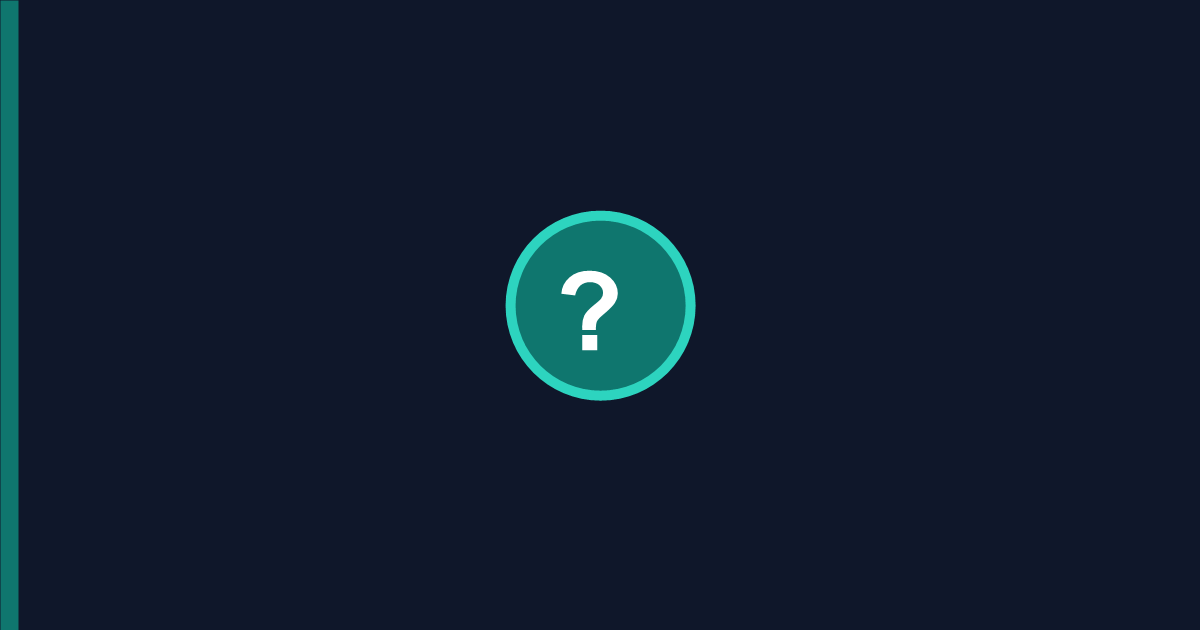
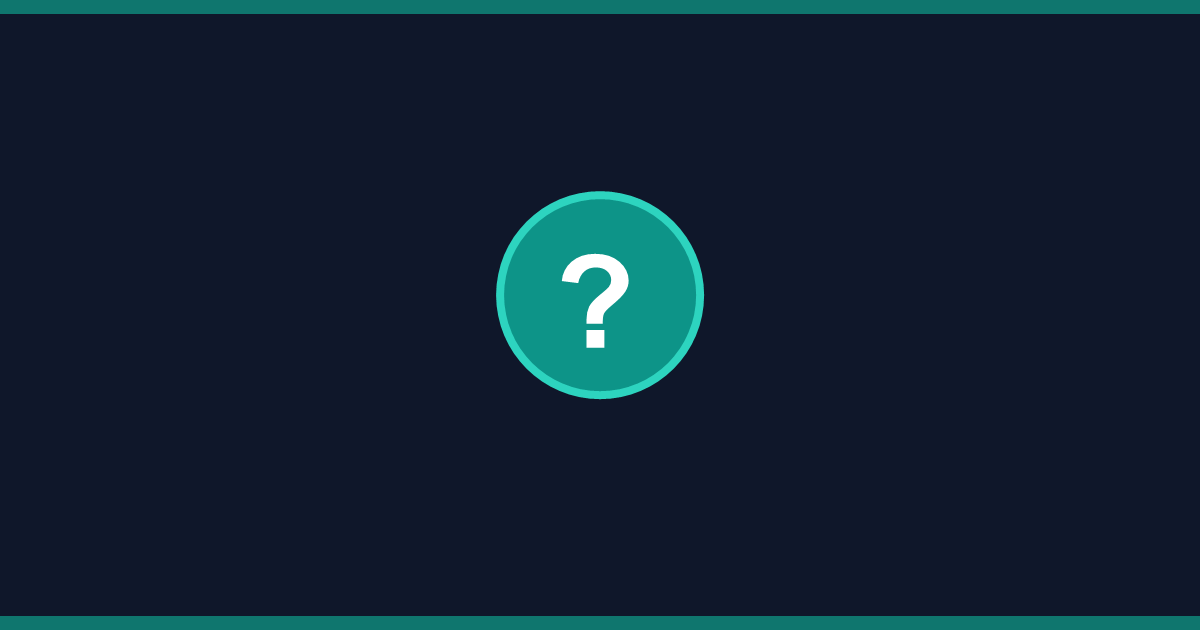
Melhora o cartao de compartilhamento no WhatsApp.

Changed region(s): [[0.0, 0.0, 1.0, 1.0], [0.4008, 0.3016, 0.5858, 0.6333]]

diff --git a/governadores/index.html b/governadores/index.html
@@ -24,17 +24,20 @@
   <meta property="og:type" content="website">
   <meta property="og:locale" content="pt_BR">
   <meta property="og:site_name" content="Tá no Plano?">
-  <meta property="og:title" content="Tá no Plano? Planos para governador de Pernambuco 2026">
-  <meta property="og:description" content="Compare os planos de João Campos, Raquel Lyra, Renan Hallais e Ivan Moraes a partir dos PDFs do TSE.">
+  <meta property="og:title" content="Tá no Plano? Governador de Pernambuco 2026">
+  <meta property="og:description" content="Compare os planos de João, Raquel, Hallais e Ivan nos PDFs do TSE.">
   <meta property="og:url" content="https://ta-no-plano.github.io/governadores/">
-  <meta property="og:image" content="https://ta-no-plano.github.io/og-image.png">
+  <meta property="og:image" content="https://ta-no-plano.github.io/og-image.jpg?v=2">
+  <meta property="og:image:secure_url" content="https://ta-no-plano.github.io/og-image.jpg?v=2">
+  <meta property="og:image:type" content="image/jpeg">
   <meta property="og:image:width" content="1200">
   <meta property="og:image:height" content="630">
+  <meta property="og:image:alt" content="Tá no Plano?">
   <meta name="twitter:card" content="summary_large_image">
-  <meta name="twitter:image" content="https://ta-no-plano.github.io/og-image.png">
+  <meta name="twitter:image" content="https://ta-no-plano.github.io/og-image.jpg?v=2">
   <link rel="sitemap" type="application/xml" href="https://ta-no-plano.github.io/sitemap.xml">
-  <meta name="twitter:title" content="Tá no Plano? Planos para governador de Pernambuco 2026">
-  <meta name="twitter:description" content="Compare os planos de governo ao Palácio das Princesas, com trecho e página do PDF do TSE.">
+  <meta name="twitter:title" content="Tá no Plano? Governador de Pernambuco 2026">
+  <meta name="twitter:description" content="Compare os planos de João, Raquel, Hallais e Ivan nos PDFs do TSE.">
   <script type="application/ld+json">
   {
     "@context": "https://schema.org",

diff --git a/index.html b/index.html
@@ -22,17 +22,20 @@
   <meta property="og:type" content="website">
   <meta property="og:locale" content="pt_BR">
   <meta property="og:site_name" content="Tá no Plano?">
-  <meta property="og:title" content="Tá no Plano? Compare os planos de governo 2026">
-  <meta property="og:description" content="Leitura cidadã dos PDFs protocolados no TSE: o que cada presidenciável cita — e como diz que vai fazer.">
+  <meta property="og:title" content="Tá no Plano? Compare os planos de 2026">
+  <meta property="og:description" content="Veja o que cada candidato colocou no PDF do TSE, com página e trecho.">
   <meta property="og:url" content="https://ta-no-plano.github.io/">
-  <meta property="og:image" content="https://ta-no-plano.github.io/og-image.png">
+  <meta property="og:image" content="https://ta-no-plano.github.io/og-image.jpg?v=2">
+  <meta property="og:image:secure_url" content="https://ta-no-plano.github.io/og-image.jpg?v=2">
+  <meta property="og:image:type" content="image/jpeg">
   <meta property="og:image:width" content="1200">
   <meta property="og:image:height" content="630">
+  <meta property="og:image:alt" content="Tá no Plano?">
   <meta name="twitter:card" content="summary_large_image">
-  <meta name="twitter:image" content="https://ta-no-plano.github.io/og-image.png">
+  <meta name="twitter:image" content="https://ta-no-plano.github.io/og-image.jpg?v=2">
   <link rel="sitemap" type="application/xml" href="https://ta-no-plano.github.io/sitemap.xml">
-  <meta name="twitter:title" content="Tá no Plano? Compare os planos de governo 2026">
-  <meta name="twitter:description" content="Compare os planos de governo dos presidenciáveis de 2026, com trecho e página do PDF do TSE.">
+  <meta name="twitter:title" content="Tá no Plano? Compare os planos de 2026">
+  <meta name="twitter:description" content="Veja o que cada candidato colocou no PDF do TSE, com página e trecho.">
   <script type="application/ld+json">
   {
     "@context": "https://schema.org",
